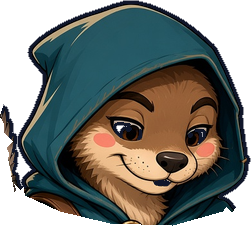
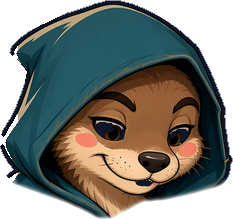
Smudge stamp pose: careful recut (fringe peeled, feather kept, arm from shoulder, wrist joint), DragonBones stamp lands face-down, old-style blink and mouth
Claude-Session: https://claude.ai/code/session_01MKsZvYnMVUP17zjeeAuUE4

diff --git a/js/os.js b/js/os.js
@@ -76,7 +76,7 @@ window.OS = (function () {
         else if (name === 'tail') a = clamp(a + Math.sin(t * 1.3) * 0.06 + Math.sin(t * 2.9) * 0.025 + (this.happy > 0 ? Math.sin(t * 14) * 0.12 : 0), -0.5, 0.5);
         else if (name === 'feet') a += Math.sin(t * 1.5) * 0.09;
         else if (name === 'rod') a = clamp(a + Math.sin(t * 0.9) * 0.012, -0.3, 0.2);
-        else if (name === 'arm') { a = clamp(a, -0.12, 1.25); const k = clamp(a, 0, 1); tr = `translate(${-14 * k}px,${78 * k}px) `; }
+        else if (name === 'arm') a = clamp(a, -0.2, 1.7);
         else if (name === 'shovel') a = clamp(a, -0.25, 0.45);
         else a = clamp(a, -0.3, 0.3);
         p.el.style.transform = tr + `rotate(${a}rad)`;

diff --git a/rules/smudge_stamp_cut.py b/rules/smudge_stamp_cut.py
@@ -1,0 +1,195 @@
+"""Careful cut of Smudge's stamp pose (replaces the generic polygon cut for this pose).
+
+  python3 rules/smudge_stamp_cut.py     -> art2/puppet/stamp_*.png, assets/v2/puppet/stamp_*.webp, data/rig.json
+
+What is different from rules/puppet.py:
+  * pale ground-shadow fringe along the bottom is peeled off first
+  * the knocked-out eye whites are filled back in
+  * head: follows the hood outline, never takes feather pixels; collar is painted in underneath
+  * arm: the whole arm from the shoulder, cut by colour against the cloak; the cloak behind it is
+    painted in, and the cloak drape that hangs over the shoulder is redrawn on top ("over")
+"""
+import json, os
+import numpy as np, cv2
+from PIL import Image, ImageDraw
+from scipy import ndimage
+
+ROOT = os.path.dirname(os.path.dirname(os.path.abspath(__file__)))
+SRC = os.path.join(ROOT, 'art2', 'smudge', 'stamp.png')
+OUT = os.path.join(ROOT, 'art2', 'puppet')
+WEB = os.path.join(ROOT, 'assets', 'v2', 'puppet')
+
+TAIL = [(432,405),(470,378),(540,395),(570,450),(565,505),(520,520),(495,470),(440,445)]
+HEAD = [(262,5),(282,5),(302,12),(325,26),(345,40),(362,56),(374,78),(382,102),(387,125),(390,150),(390,168),(386,182),(378,191),
+        (350,199),(322,205),(300,207),(285,215),(270,223),(255,223),(240,215),(222,207),(205,201),(188,195),(172,189),
+        (161,177),(158,160),(159,140),(164,122),(175,104),(183,86),(185,76),(177,66),(166,56),(169,45),(190,34),(215,22),(240,10)]
+ARM = [(336,255),(352,258),(380,238),(402,225),(420,217),(434,190),(438,165),(453,148),(478,143),(502,163),(508,215),(508,278),
+       (462,283),(444,289),(427,301),(400,301),(360,293),(336,287)]
+OVER = [(300,200),(410,214),(426,232),(386,247),(353,263),(341,263),(341,293),(318,293),(318,263),(300,263)]
+HAND = [(413,224),(424,215),(436,190),(438,165),(453,148),(478,143),(502,163),(508,215),(508,278),(462,283),(440,265),(412,247)]
+HEAD_PIVOT, ARM_PIVOT, TAIL_PIVOT, WRIST = (275, 212), (346, 270), (445, 425), (442, 238)
+
+
+def poly(size, pts):
+    m = Image.new('L', size, 0); ImageDraw.Draw(m).polygon(pts, fill=255); return np.asarray(m) > 0
+
+
+def crop_save(arr, name):
+    ys, xs = np.where(arr[..., 3] > 0); x0, y0, x1, y1 = xs.min(), ys.min(), xs.max() + 1, ys.max() + 1
+    im = Image.fromarray(arr[y0:y1, x0:x1], 'RGBA'); im.save(f'{OUT}/stamp_{name}.png')
+    im.save(f'{WEB}/stamp_{name}.webp', quality=92, method=6)
+    return [int(x0), int(y0)]
+
+
+def run():
+    im = Image.open(SRC).convert('RGBA'); size = im.size; a = np.asarray(im).copy()
+    H, W = a.shape[:2]; yy, xx = np.mgrid[0:H, 0:W]
+    rgb = a[..., :3].astype(np.int16)
+
+    # ---- 1. peel the pale shadow fringe along the bottom. An earlier pass wrapped the whole cutout,
+    #         fringe included, in a navy ink line, so: lift that line, peel the pale pixels, ink again.
+    INK = np.array([16, 22, 42]); low = yy > 300
+    solid = a[..., 3] > 20; before = solid.copy()
+    inkish = (np.abs(rgb - INK).max(axis=2) < 14)
+    ring = inkish & ndimage.binary_dilation(~solid, iterations=4) & low
+    solid &= ~ring
+    pale = (rgb.min(axis=2) > 38) & ((rgb.max(axis=2) - rgb.min(axis=2)) < 24) & low
+    for _ in range(80):
+        edge = ndimage.binary_dilation(~solid, iterations=1) & solid & (pale | (inkish & low))
+        if not edge.any(): break
+        solid &= ~edge
+    solid = ndimage.binary_opening(solid, iterations=1) | (solid & ~low)
+    lab, n = ndimage.label(solid)
+    sizes = ndimage.sum(solid, lab, range(1, n + 1)); solid &= np.isin(lab, [i + 1 for i, v in enumerate(sizes) if v > 400])
+    newink = ndimage.binary_dilation(solid, iterations=2) & ~solid & low & before
+    a[..., 3][~solid] = 0
+    a[..., :3][newink] = INK; a[..., 3][newink] = 255
+    rgb = a[..., :3].astype(np.int16)
+
+    # ---- 2. no see-through pinholes inside the head (eye corners, mouth): close them with ink
+    headp = poly(size, HEAD)
+    lab, n = ndimage.label(a[..., 3] < 128)
+    for i in range(1, n + 1):
+        m = lab == i
+        if m[0, :].any() or m[-1, :].any() or m[:, 0].any() or m[:, -1].any(): continue
+        if (m & headp).sum() == m.sum() and m.sum() < 600:
+            g = ndimage.binary_dilation(m, iterations=1); a[..., :3][g & (a[..., 3] < 255)] = INK; a[..., 3][g] = 255
+    rgb = a[..., :3].astype(np.int16); alpha = a[..., 3] > 0
+    base = a.copy(); parts = []
+    teal = (rgb[..., 2] > rgb[..., 0] + 6) & (rgb[..., 1] > rgb[..., 0])
+    dark = rgb.max(axis=2) < 60
+
+    # ---- 3. tail (drawn behind the body), same cut as before
+    bgnear = ndimage.binary_dilation(~alpha, iterations=10)
+    tm = poly(size, TAIL); tm = tm | (ndimage.binary_dilation(tm, iterations=10) & bgnear & alpha)
+    piece = a.copy(); piece[~ndimage.binary_dilation(tm, iterations=5)] = 0
+    parts.append(dict(name='tail', mode='behind', pivot=list(TAIL_PIVOT), offset=crop_save(piece, 'tail')))
+    base[..., 3][tm] = 0
+
+    # ---- 4. arm: everything in the arm outline that is not cloak, plus its own ink line
+    ap = poly(size, ARM) & alpha
+    cloak = (rgb[..., 2] > rgb[..., 0] + 8) & (rgb[..., 1] > rgb[..., 0] + 6)
+    core = ap & ~cloak
+    core = ndimage.binary_opening(core, iterations=1)
+    lab, n = ndimage.label(core); core = lab == (1 + int(np.argmax(ndimage.sum(core, lab, range(1, n + 1)))))
+    arm = ndimage.binary_fill_holes(core)
+    arm = ndimage.binary_closing(arm, iterations=2) & ap
+    piece = a.copy(); piece[~arm] = 0
+    # a round fur shoulder under the cloak so no gap opens when the arm turns
+    disc = ((xx - ARM_PIVOT[0]) ** 2 + (yy - ARM_PIVOT[1]) ** 2 <= 21 ** 2) & ~arm & ((yy <= 285) | (xx < 340))
+    furfill = cv2.inpaint(np.ascontiguousarray(piece[..., :3]), (~(arm & ~dark)).astype(np.uint8) * 255, 4, cv2.INPAINT_TELEA)
+    piece[..., :3][disc] = furfill[disc]; piece[..., 3][disc] = 255
+    parts.append(dict(name='arm', mode='front', pivot=list(ARM_PIVOT), offset=crop_save(piece, 'arm')))
+    # the same arm in two pieces for the bone rig: forearm, and the fist with the stamp on a wrist joint,
+    # so the stamp can stay face-down while the arm swings. Fur is painted on under the fist.
+    hand = arm & poly(size, HAND)
+    fore = piece.copy(); under = hand & ((xx - WRIST[0]) ** 2 + (yy - WRIST[1]) ** 2 <= 24 ** 2)
+    fore[hand & ~under] = 0
+    wfill = cv2.inpaint(np.ascontiguousarray(piece[..., :3]), (~(arm & ~hand & ~dark)).astype(np.uint8) * 255, 4, cv2.INPAINT_TELEA)
+    fore[..., :3][under] = wfill[under]
+    hp_ = a.copy(); hp_[~hand] = 0
+    db = dict(forearm=dict(pivot=list(ARM_PIVOT), offset=crop_save(fore, 'forearm')), hand=dict(pivot=list(WRIST), offset=crop_save(hp_, 'hand')))
+    # body behind the arm: cloak lining, mirrored up from just below the arm; open air stays empty
+    hole = ndimage.binary_dilation(arm, iterations=2) & alpha
+    edge_x = lambda y: 398 + (y - 240) * 24 / 60.0           # right edge of the cloak behind the arm
+    behind = hole & (xx < edge_x(yy)) & (yy >= 240); arm_hole = hole.copy()
+    miss = np.zeros((H, W), bool)
+    for x in range(W):
+        col = np.where(behind[:, x])[0]
+        if not len(col): continue
+        bottom = col.max() + 1
+        for y in col:
+            sy = min(H - 1, bottom + 2 + min(bottom - y, 26))
+            ok = base[sy, x, 3] > 0 and not hole[sy, x]
+            if ok: base[y, x, :3] = base[sy, x, :3]
+            else: miss[y, x] = True
+            base[y, x, 3] = 255
+    if miss.any(): base[..., :3] = cv2.inpaint(np.ascontiguousarray(base[..., :3]), miss.astype(np.uint8) * 255, 4, cv2.INPAINT_TELEA)
+    blur = cv2.GaussianBlur(base[..., :3], (0, 0), 2.2); base[..., :3][behind] = (blur[behind] * 0.9).astype(np.uint8)
+    base[..., 3][hole & ~behind] = 0
+    ink = behind & ndimage.binary_dilation(hole & ~behind, iterations=3)          # ink line down the cloak's new edge
+    base[..., :3][ink] = (16, 22, 42)
+
+    # ---- 5. head
+    hm = headp & alpha
+    band = xx < 176                                                     # the side that touches the quill
+    hood = hm & teal
+    feather = hm & band & ~teal & ~(dark & ndimage.binary_dilation(hood, iterations=2))
+    hm &= ~feather
+    hm = ndimage.binary_opening(hm, iterations=2) | (hm & ~band)
+    lab, n = ndimage.label(hm); hm = lab == (1 + int(np.argmax(ndimage.sum(hm, lab, range(1, n + 1)))))
+    piece = a.copy(); piece[~hm] = 0
+    # soft lower seam so the hood melts into the collar
+    soft = cv2.GaussianBlur(hm.astype(np.float32), (0, 0), 2.4)
+    k = np.clip((yy - 182) / 8.0, 0, 1)
+    seam = np.clip((soft - 0.5) * 2, 0, 1)
+    piece[..., 3] = (piece[..., 3] * (1 - k + k * seam)).astype(np.uint8)
+    parts_head = dict(name='head', mode='front', pivot=list(HEAD_PIVOT), offset=crop_save(piece, 'head'))
+    # collar under the head: paint a band in from the cloak around it, leave the rest empty
+    hole = hm.copy()
+    base[..., 3][hole] = 0
+    known = (base[..., 3] > 200)
+    near = ndimage.binary_dilation(known, iterations=24) & hole & (yy > 172) & (xx > 170) & (xx < 384)
+    fill = cv2.inpaint(np.ascontiguousarray(base[..., :3]), (~known).astype(np.uint8) * 255, 5, cv2.INPAINT_TELEA)
+    base[..., :3][near] = fill[near]; base[..., 3][near] = 255
+
+    # ---- 6. the cloak drape that hangs in front of the shoulder, redrawn over the arm
+    om = poly(size, OVER) & (base[..., 3] > 0) & ~arm_hole
+    piece = base.copy(); piece[~om] = 0
+    parts.append(dict(name='over', mode='front', pivot=[360, 240], offset=crop_save(piece, 'over')))
+    parts.append(parts_head)
+
+    lab, n = ndimage.label(base[..., 3] > 0)                                         # no loose crumbs
+    sizes = ndimage.sum(base[..., 3] > 0, lab, range(1, n + 1)); base[..., 3][~np.isin(lab, [i + 1 for i, v in enumerate(sizes) if v > 300])] = 0
+    Image.fromarray(base, 'RGBA').save(f'{OUT}/stamp_base.png')
+    Image.fromarray(base, 'RGBA').save(f'{WEB}/stamp_base.webp', quality=92, method=6)
+    Image.fromarray(a, 'RGBA').save(f'{OUT}/stamp_clean.png')
+    fur = [int(v) for v in a[116:121, 301:306, :3].reshape(-1, 3).mean(axis=0)]
+    entry = dict(size=list(size), foot=[300, 520], bag=[95, 250], parts=parts, db=db,
+                 face=dict(eyes=[[267, 132, 15, 12], [339, 139, 11, 11]], mouth=[303, 186, 12, 7], fur=fur))
+    for p in (f'{OUT}/rig.json', os.path.join(ROOT, 'data', 'rig.json')):
+        r = json.load(open(p)); r['stamp'] = entry; json.dump(r, open(p, 'w'), separators=(',', ':') if 'data' in p else None, indent=None if 'data' in p else 1)
+    return entry
+
+
+def preview(entry, angles, path, bg=(70, 40, 120, 255)):
+    W, H = entry['size']; canvas = Image.new('RGBA', (W + 80, H + 80), bg)
+    def paste(part):
+        p = Image.open(f"{OUT}/stamp_{part['name']}.png"); full = Image.new('RGBA', canvas.size, (0, 0, 0, 0))
+        full.paste(p, (part['offset'][0] + 40, part['offset'][1] + 40))
+        full = full.rotate(-angles.get(part['name'], 0), center=(part['pivot'][0] + 40, part['pivot'][1] + 40), resample=Image.BICUBIC)
+        canvas.alpha_composite(full)
+    for part in entry['parts']:
+        if part['mode'] == 'behind': paste(part)
+    canvas.alpha_composite(Image.open(f'{OUT}/stamp_base.png'), (40, 40))
+    for part in entry['parts']:
+        if part['mode'] != 'behind': paste(part)
+    canvas.save(path); return canvas
+
+
+if __name__ == '__main__':
+    e = run()
+    tiles = [preview(e, ang, f'/tmp/cut{i}.png') for i, ang in enumerate([{}, {'head': 7, 'arm': 45, 'tail': 10}, {'head': -7, 'arm': 95, 'tail': -10}])]
+    row = Image.new('RGB', (sum(t.width for t in tiles), tiles[0].height)); x = 0
+    for t in tiles: row.paste(t, (x, 0)); x += t.width
+    row.save('/tmp/cut_all.png'); print('ok', [p['name'] for p in e['parts']])

diff --git a/rules/dbexport.py b/rules/dbexport.py
@@ -61,6 +61,10 @@ def build(pose='stamp', name='smudge'):
     rig = json.load(open(os.path.join(ROOT, 'data', 'rig.json')))[pose]
     foot = rig['foot']; P = {p['name']: p for p in rig['parts']}
     img = {n: Image.open(os.path.join(SRC, f'{pose}_{n}.png')).convert('RGBA') for n in ['base'] + list(P)}
+    P['base'] = {'offset': [0, 0]}
+    DBX = rig.get('db', {})
+    for n, v in DBX.items(): P[n] = v; img[n] = Image.open(os.path.join(SRC, f'{pose}_{n}.png')).convert('RGBA')
+    if DBX: del img['arm']
     A = lambda pt: (pt[0] - foot[0], pt[1] - foot[1])           # picture point -> armature space
 
     # ---- face shapes (drawn here so they ride in the same atlas)
@@ -74,7 +78,7 @@ def build(pose='stamp', name='smudge'):
         else: d.ellipse([0, 0, w * s - 1, h * s - 1], fill=col + (255,), outline=INK, width=2 * s)
         return e.resize((w, h), Image.LANCZOS)
     for i, (cx, cy, rx, ry) in enumerate(eyes): img[f'lid{i}'] = ellipse(int(rx * 2.5), int(ry * 2.6), fur, True)
-    img['mouth'] = ellipse(mouth[2] * 2 + 4, mouth[3] * 2 + 6, (90, 31, 44))
+    img['mouth'] = ellipse(mouth[2] * 2 + 2, mouth[3] * 2 + 2, (90, 31, 44))
 
     # ---- atlas (simple shelves, 2px gutters)
     order = sorted(img, key=lambda n: -img[n].size[1]); W = 1024; x = y = 2; rowh = 0; sub = []
@@ -94,6 +98,8 @@ def build(pose='stamp', name='smudge'):
         px, py = A(P[n]['pivot']); bones.append({'name': n, 'parent': parent, 'length': length, 'transform': {'x': r2(px - ppos[0]), 'y': r2(py - ppos[1])}})
         return (px, py)
     hp = joint('head'); ap = joint('arm')
+    if DBX:
+        wp = A(DBX['hand']['pivot']); bones.append({'name': 'hand', 'parent': 'arm', 'length': 40, 'transform': {'x': r2(wp[0] - ap[0]), 'y': r2(wp[1] - ap[1])}})
     # tail: three bones in a chain along the tail
     tp = A(P['tail']['pivot']); tl = (P['tail']['pivot'][0] - P['tail']['offset'][0], P['tail']['pivot'][1] - P['tail']['offset'][1])
     (dx, dy), L = tail_axis(img['tail'], tl); ang = math.degrees(math.atan2(dy, dx)); seg = L / 3
@@ -102,7 +108,7 @@ def build(pose='stamp', name='smudge'):
     bones.append({'name': 'tail3', 'parent': 'tail2', 'length': r2(seg), 'transform': {'x': r2(seg)}})
     idx = {b['name']: i for i, b in enumerate(bones)}
     for i, (cx, cy, rx, ry) in enumerate(eyes):
-        ex, ey = A((cx, cy)); bones.append({'name': f'lid{i}', 'parent': 'head', 'transform': {'x': r2(ex - hp[0]), 'y': r2(ey - hp[1]), 'scY': 0.01}})
+        ex, ey = A((cx, cy - int(ry * 2.6) / 2)); bones.append({'name': f'lid{i}', 'parent': 'head', 'transform': {'x': r2(ex - hp[0]), 'y': r2(ey - hp[1]), 'scY': 0.01}})
     mx, my = A((mouth[0], mouth[1])); bones.append({'name': 'mouth', 'parent': 'head', 'transform': {'x': r2(mx - hp[0]), 'y': r2(my - hp[1]), 'scY': 0.01}})
 
     # ---- tail mesh, weighted across the three tail bones
@@ -128,13 +134,15 @@ def build(pose='stamp', name='smudge'):
 
     # ---- slots (draw order) and skin
     def image(n, bonepos):
-        o = P[n]['offset'] if n in P else [0, 0]; w, h = img[n].size; c = A((o[0] + w / 2, o[1] + h / 2))
+        o = P[n]['offset']; w, h = img[n].size; c = A((o[0] + w / 2, o[1] + h / 2))
         return {'name': n, 'transform': {'x': r2(c[0] - bonepos[0]), 'y': r2(c[1] - bonepos[1])}}
-    slots = [{'name': 'tail', 'parent': 'root'}, {'name': 'base', 'parent': 'body'}, {'name': 'arm', 'parent': 'arm'}, {'name': 'head', 'parent': 'head'}]
+    slots = [{'name': 'tail', 'parent': 'root'}, {'name': 'base', 'parent': 'body'}, {'name': 'arm', 'parent': 'arm'}] + ([{'name': 'hand', 'parent': 'hand'}] if DBX else []) + ([{'name': 'over', 'parent': 'body'}] if 'over' in P else []) + [{'name': 'head', 'parent': 'head'}]
     skin = [{'name': 'tail', 'display': [tail_mesh]}, {'name': 'base', 'display': [image('base', body)]},
-            {'name': 'arm', 'display': [image('arm', ap)]}, {'name': 'head', 'display': [image('head', hp)]}]
+            {'name': 'arm', 'display': [image('forearm' if DBX else 'arm', ap)]}] + ([{'name': 'hand', 'display': [image('hand', wp)]}] if DBX else []) + ([{'name': 'over', 'display': [image('over', body)]}] if 'over' in P else []) + [{'name': 'head', 'display': [image('head', hp)]}]
     for n in [f'lid{i}' for i in range(len(eyes))] + ['mouth']:
-        slots.append({'name': n, 'parent': n}); skin.append({'name': n, 'display': [{'name': n}]})
+        d = {'name': n}
+        if n != 'mouth': d['transform'] = {'y': r2(img[n].size[1] / 2)}
+        slots.append({'name': n, 'parent': n}); skin.append({'name': n, 'display': [d]})
 
     # ---- animations
     S = math.sin; T = 2 * math.pi
@@ -145,8 +153,10 @@ def build(pose='stamp', name='smudge'):
         {'name': 'head', 'rotateFrame': wave(96, 8, lambda p: 1.6 * S(T * p + 0.5))},
     ]}
     stamp = {'duration': 14, 'playTimes': 1, 'name': 'stamp', 'bone': [
-        {'name': 'arm', 'rotateFrame': keys([(0, 0), (3, -14), (6, 70), (8, 70), (14, 0)]),
-         'translateFrame': keys([(0, {'x': 0, 'y': 0}), (3, {'x': 2, 'y': -6}), (6, {'x': -14, 'y': 78}), (8, {'x': -14, 'y': 78}), (14, {'x': 0, 'y': 0})])},
+        {'name': 'arm', 'rotateFrame': keys([(0, 0), (3, -12), (7, 97), (9, 97), (14, 0)]),
+         'scaleFrame': keys([(0, {'x': 1, 'y': 1}), (3, {'x': 0.96, 'y': 1}), (7, {'x': 1.16, 'y': 1}), (9, {'x': 1.16, 'y': 1}), (14, {'x': 1, 'y': 1})]),
+         'translateFrame': keys([(0, {'x': 0, 'y': 0}), (7, {'x': -4, 'y': 8}), (9, {'x': -4, 'y': 8}), (14, {'x': 0, 'y': 0})])},
+        {'name': 'hand', 'rotateFrame': keys([(0, 0), (3, 8), (7, -92), (9, -92), (14, 0)])},
         {'name': 'head', 'rotateFrame': keys([(0, 0), (3, -2), (6, 5), (14, 0)])},
         {'name': 'tail3', 'rotateFrame': keys([(0, 0), (6, -16), (10, 8), (14, 0)])},
         {'name': 'tail2', 'rotateFrame': keys([(0, 0), (5, -9), (9, 4), (14, 0)])},
@@ -158,9 +168,9 @@ def build(pose='stamp', name='smudge'):
         {'name': 'head', 'rotateFrame': wave(12, 2, lambda p: 3 * S(T * p))},
     ] + [{'name': f'lid{i}', 'scaleFrame': [{'duration': 12, 'x': 1, 'y': 100}, {'duration': 0, 'x': 1, 'y': 100}]} for i in range(len(eyes))]}
     blink = {'duration': 5, 'playTimes': 1, 'name': 'blink', 'bone': [
-        {'name': f'lid{i}', 'scaleFrame': [{'duration': 2, 'tweenEasing': 0, 'x': 1, 'y': 1}, {'duration': 3, 'tweenEasing': 0, 'x': 1, 'y': 100}, {'duration': 0, 'x': 1, 'y': 1}]} for i in range(len(eyes))]}
+        {'name': f'lid{i}', 'scaleFrame': [{'duration': 1, 'x': 1, 'y': 100}, {'duration': 4, 'tweenEasing': 0, 'x': 1, 'y': 100}, {'duration': 0, 'x': 1, 'y': 1}]} for i in range(len(eyes))]}
     talk = {'duration': 16, 'playTimes': 0, 'name': 'talk', 'bone': [
-        {'name': 'mouth', 'scaleFrame': [{'duration': 2, 'tweenEasing': 0, 'x': 1, 'y': v} for v in (20, 90, 45, 100, 30, 75, 55, 95)] + [{'duration': 0, 'x': 1, 'y': 20}]}]}
+        {'name': 'mouth', 'scaleFrame': [{'duration': 2, 'tweenEasing': 0, 'x': 1, 'y': v} for v in (35, 85, 50, 100, 40, 70, 45, 90)] + [{'duration': 0, 'x': 1, 'y': 20}]}]}
 
     ske = {'frameRate': FPS, 'name': name, 'version': '5.5', 'compatibleVersion': '5.5', 'armature': [{
         'type': 'Armature', 'frameRate': FPS, 'name': pose,

diff --git a/rules/dbshots.py b/rules/dbshots.py
@@ -1,0 +1,22 @@
+import asyncio
+from playwright.async_api import async_playwright
+from PIL import Image
+async def main():
+    async with async_playwright() as p:
+        b=await p.chromium.launch(executable_path='/usr/bin/google-chrome',args=['--no-sandbox'])
+        pg=await b.new_page(viewport={'width':1000,'height':640},device_scale_factor=2)
+        pg.on('pageerror',lambda e: print('PAGEERR',e))
+        await pg.goto('http://127.0.0.1:8800/dbtest.html',wait_until='load'); await pg.wait_for_timeout(1300)
+        clip={'x':40,'y':130,'width':920,'height':430}
+        await pg.screenshot(path='/tmp/s0.png',clip=clip)
+        await pg.evaluate("document.getElementById('bStamp').click()"); await pg.wait_for_timeout(330)
+        await pg.screenshot(path='/tmp/s1.png',clip=clip)
+        await pg.wait_for_timeout(600)
+        await pg.evaluate("document.getElementById('bCheer').click();document.getElementById('bTalk').click()"); await pg.wait_for_timeout(420)
+        await pg.screenshot(path='/tmp/s2.png',clip=clip)
+        await b.close()
+asyncio.run(main())
+ims=[Image.open('/tmp/s%d.png'%i) for i in (0,1,2)]
+s=Image.new('RGB',(ims[0].width,ims[0].height*3))
+for i,im in enumerate(ims): s.paste(im,(0,im.height*i))
+s.resize((1100,1542),Image.LANCZOS).save('/tmp/s012.png')

diff --git a/rules/dbprobe.py b/rules/dbprobe.py
@@ -1,0 +1,14 @@
+import sys, asyncio, json
+from playwright.async_api import async_playwright
+async def main():
+    async with async_playwright() as p:
+        b=await p.chromium.launch(executable_path='/usr/bin/google-chrome',args=['--no-sandbox'])
+        pg=await b.new_page(viewport={'width':1000,'height':640})
+        pg.on('console',lambda m: print(m.type, m.text[:160].replace(chr(10),' | ')) if m.type in('error','warning') and 'GL Driver' not in m.text else None)
+        pg.on('pageerror',lambda e: print('PAGEERR',e))
+        await pg.goto('http://127.0.0.1:8800/dbtest.html',wait_until='load'); await pg.wait_for_timeout(1200)
+        for i,(js,wait) in enumerate(json.loads(sys.argv[1])):
+            r=await pg.evaluate(js); print(i,r); await pg.wait_for_timeout(wait)
+            await pg.screenshot(path=f'/tmp/probe{i}.png',clip={'x':500,'y':130,'width':460,'height':430})
+        await b.close()
+asyncio.run(main())

diff --git a/PLAN.md b/PLAN.md
@@ -80,10 +80,12 @@ Status: [x] done, [~] partly done, [ ] not started.
 - [x] DragonBones runtime (open source) pulled in; plays in the browser on the site
 - [x] `rules/dbexport.py` writes real DragonBones files from the cut parts and joints
 - [x] Smudge stamp pose as a test: shared bone names, three-bone tail with a bending mesh, idle / stamp / cheer / blink / talk; test page at `/dbtest.html`
-- [ ] Dean to compare the test page and say go or no-go
-- [ ] If go: shared skeleton for Smudge's other poses and all 26 heroes (extra bones only where needed: wings, capes, weapons)
-- [ ] If go: swap the game and landing puppets over to the DragonBones player; shrink the player download (core is about 680 KB unminified; Pixi dropped for a small canvas renderer, `js/dbcanvas.js`)
-- [ ] If go: DragonBones player for the Godot desktop pet (needs a compiled plugin; not tried yet)
+- [x] Dean chose DragonBones (likes the tail). Keep the current rig's blink style and smaller mouth
+- [x] Stamp pose recut (`rules/smudge_stamp_cut.py`): white fringe peeled, head no longer takes the feather, arm cut from the shoulder with the cloak painted in behind, fist and stamp on a wrist joint so the stamp lands face-down
+- [ ] Same careful recut for Smudge's other poses (fish, pick, dig, sleep) and a white-fringe pass on every hero
+- [ ] Shared skeleton for Smudge's other poses and all 26 heroes (extra bones only where needed: wings, capes, weapons)
+- [ ] Swap the game and landing puppets over to the DragonBones player; shrink the player download (core is about 680 KB unminified; Pixi dropped for a small canvas renderer, `js/dbcanvas.js`)
+- [ ] Godot desktop pet: play the same files (add-on if one works on 4.3, otherwise a small player on Godot's built-in Skeleton2D)
 - [ ] The DragonBones editor itself is a Windows/Mac hand tool; files can be opened there for hand polish later
 
 ## Waiting on Dean
